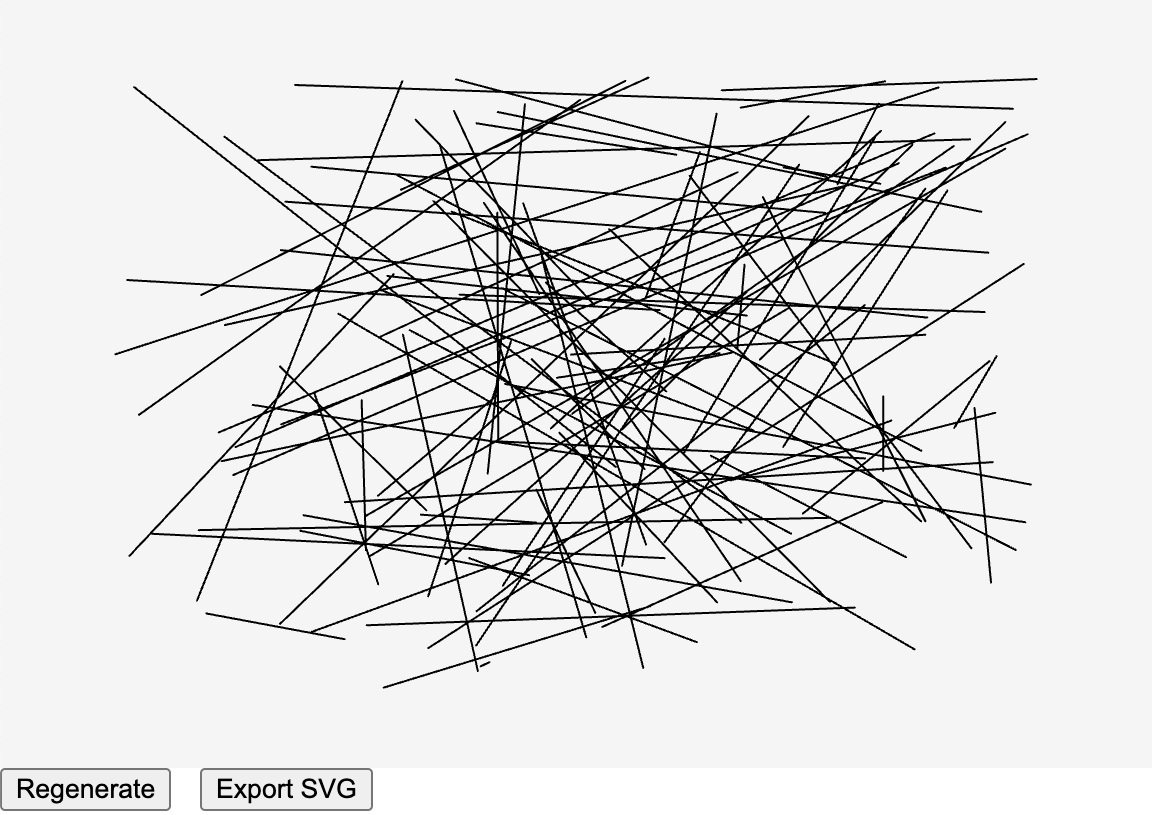
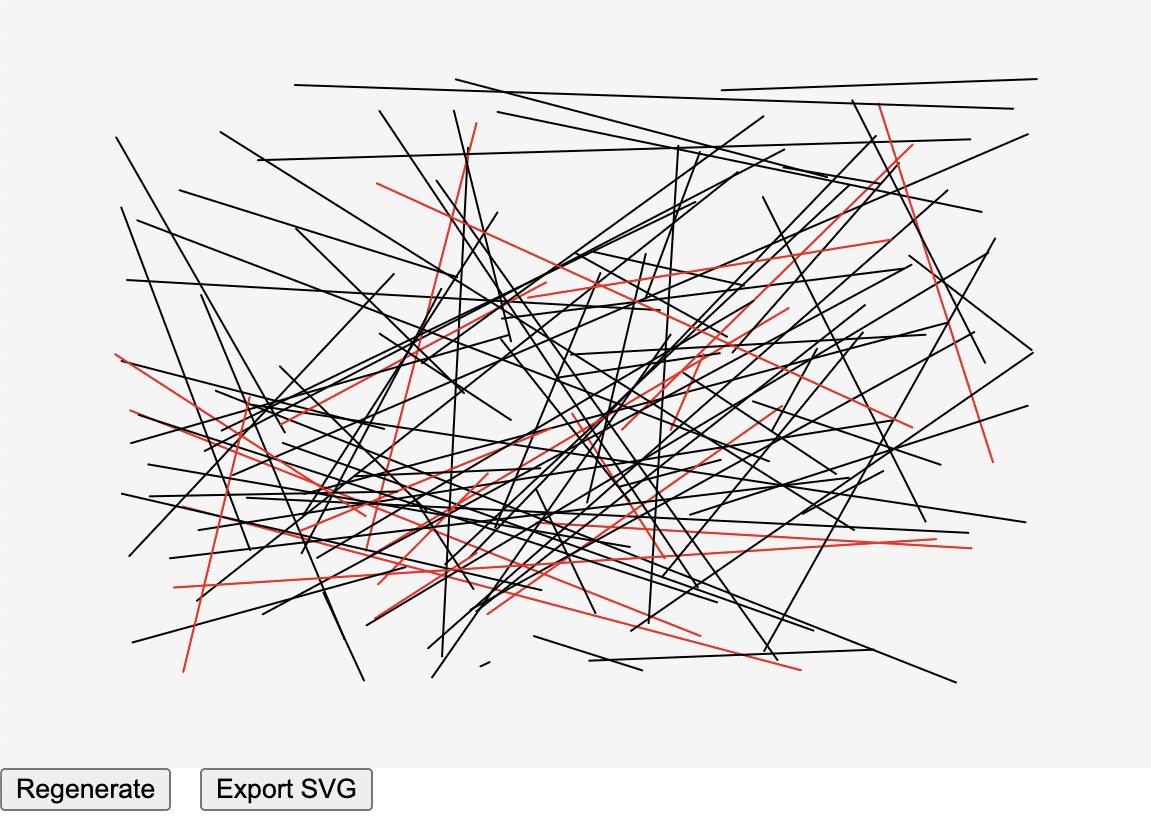
Duh

diff --git a/lib/p5.plotSvg.js b/lib/p5.plotSvg.js
@@ -1,8 +1,8 @@
 // p5.plotSvg: a Plotter-Oriented SVG Exporter for p5.js
 // https://github.com/golanlevin/p5.plotSvg
 // Initiated by Golan Levin (@golanlevin)
-// v.0.1.5, June 26, 2025
-// Known to work with p5.js versions 1.4.2–1.11.8
+// v.0.1.6, July 21, 2025
+// Known to work with p5.js versions 1.4.2–1.11.9
 
 (function(global) {
   // Create a namespace for the library

diff --git a/examples/plotSvg_generative/sketch.js b/examples/plotSvg_generative/sketch.js
@@ -51,7 +51,7 @@ function draw(){
   setSvgGroupByStrokeColor(true); 
 
   // Draw 100 random lines: some red, some black.
-  let nLines = 20; 
+  let nLines = 100; 
   for (let i=0; i<nLines; i++){
     if (random() < 0.2){
       stroke('red'); // Red

diff --git a/examples/plotSvg_drawing_recorder/README.md b/examples/plotSvg_drawing_recorder/README.md
@@ -1,6 +1,6 @@
 # plotSvg_drawing_recorder Example
 
-The `plotSvg_drawing_recorder` example records a series of marks drawn by the user, and exports an SVG file when the 's' key is pressed.
+The `plotSvg_drawing_recorder` example records a series of marks drawn by the user, and exports an SVG file when a button is pressed.
 
 ![plotSvg_drawing_recorder.png](plotSvg_drawing_recorder.png)
 
@@ -12,27 +12,38 @@ Code:
 
 
 ```js
-// plotSvg_drawing_recorder Example
 // This sketch records a series of marks drawn by the user
-// and exports an SVG file when the 's' key is pressed.
-// 
-// Requires: https://cdn.jsdelivr.net/npm/p5.plotsvg@latest/lib/p5.plotSvg.js
-// See: https://github.com/golanlevin/p5.plotSvg
+// and exports an SVG file when the 'Export SVG' button is pressed.
+// This sketch is mobile-friendly.
+//
+// Uses https://github.com/golanlevin/p5.plotSvg (v.0.1.x)
+// A Plotter-Oriented SVG Exporter for p5.js
+// Golan Levin, November 2024
 
 p5.disableFriendlyErrors = true; 
+let exportSvgButton;
+let clearButton;
 let bDoExportSvg = false; 
-
 let marks = [];
 let currentMark = []; 
 
 function setup() {
-  // Postcard size: 6"x4" at 96 dpi
-  createCanvas(576, 384);
+  createCanvas(375, 500); // phone-safe size
+  exportSvgButton = createButton('Export SVG');
+  exportSvgButton.position(10, 10);
+  exportSvgButton.mousePressed(() => bDoExportSvg = true);
+  clearButton = createButton('Clear');
+  clearButton.position(100, 10);
+  clearButton.mousePressed(() => {
+    marks = [];
+    currentMark = [];
+  });
 }
 
+//-------------------------------------
 function keyPressed(){
   if (key == 's'){
-    // Initiate SVG exporting
+    // Another way to initiate SVG exporting
     bDoExportSvg = true; 
   } else if (key == ' '){
     // Clear recordings with spacebar
@@ -41,6 +52,7 @@ function keyPressed(){
   }
 }
 
+//-------------------------------------
 function mousePressed(){
   currentMark = [];
   currentMark.push(createVector(mouseX, mouseY)); 
@@ -53,7 +65,26 @@ function mouseReleased(){
     marks.push(currentMark); 
   }
 }
+function touchStarted(event) {
+  if (event.target.tagName === 'CANVAS') {
+    mousePressed();
+    return false;
+  }
+}
+function touchMoved(event) {
+  if (event.target.tagName === 'CANVAS') {
+    mouseDragged();
+    return false;
+  }
+}
+function touchEnded(event) {
+  if (event.target.tagName === 'CANVAS') {
+    mouseReleased();
+    return false;
+  }
+}
 
+//-------------------------------------
 function draw(){
   background(245); 
   strokeWeight(1);
@@ -61,8 +92,8 @@ function draw(){
   noFill();
   
   if (bDoExportSvg){
-    // Begin exporting, if requested
-    beginRecordSVG(this, "plotSvg_drawing_recorder.svg");
+    let svgFilename = "plotSvg_recording_" + frameCount; 
+    beginRecordSVG(this, svgFilename + ".svg");
   }
 
   // Draw each of the stored marks
@@ -80,7 +111,6 @@ function draw(){
   }
   endShape(); 
 
-  
   if (bDoExportSvg){
     // End exporting, if doing so
     endRecordSVG();

diff --git a/README.md b/README.md
@@ -173,7 +173,7 @@ These [examples](examples/README.md) show how to generate plotter-friendly SVGs 
 * To create SVG paths with non-default colors, simply use the `stroke()` command as usual. Note, however, that any such strokes will have additional style information added to their SVG representation (e.g. `style="stroke:#ff0000;"`); this could lead to potentially large file sizes, depending on your design. To restore the default stroke color, you can use `stroke(getDefaultStrokeColor());`.
 * If you use stroke colors, the working assumption of p5.plotSvg is that you are using so *to label different logical entities* — such as different color pens in a multi-pen plotter, different tools in a CNC machine, or different intensity settings in a laser cutter. For this reason, alpha (transparency) values are stripped out. I strongly recommend using just a small number of colors, and selecting easy-to-remember [CSS color keyword names](https://www.w3.org/TR/SVG11/types.html#ColorKeywords) such as `'red'`, `'green'`, `'blue'`, etc. 
 * This library only accepts p5 `stroke()` commands with the following types of arguments: CSS named colors [in the set of 147 official SVG colors](https://johndecember.com/html/spec/colorsvg.html), hex formatted color strings, or as RGB/gray colors whose values range from 0-255. The p5 `colorMode()` command is not supported by p5.plotSvg, and calls to `colorMode()` may produce unpredictable results in your SVG.
-* When making multi-color plots, the `setSvgMergeNamedGroups(true)` function may be helpful in grouping paths you want plotted with the same color pen; see [this example](examples/plotSvg_post_grouping/README.md).
+* When making multi-color plots, the `setSvgGroupByStrokeColor(true)` function may be helpful in grouping paths you want plotted with the same color pen; see [this example](examples/setSvgMergeNamedGroups/README.md).
 
 ### Graphics Transforms
 

diff --git a/examples/plotSvg_generative/README.md b/examples/plotSvg_generative/README.md
@@ -4,6 +4,8 @@
 
 The `plotSvg_generative` example shows one possible way that p5.plotSvg could be used for generative plotter art. In this sketch, pressing the `Regenerate` button changes the design's random seed; the user can then press the `Export SVG` button when they are satisfied with the results.
 
+This sketch uses the `setSvgGroupByStrokeColor(true)` command, which ensures that strokes of the same color are grouped together in the SVG file.
+
 Code:
 
 * At editor.p5js.org: [https://editor.p5js.org/golan/sketches/LRTXmDg2q](https://editor.p5js.org/golan/sketches/LRTXmDg2q)
@@ -11,7 +13,6 @@ Code:
 * At GitHub: [sketch.js](https://raw.githubusercontent.com/golanlevin/p5.plotSvg/refs/heads/main/examples/plotSvg_generative/sketch.js)
 
 ```js
-// plotSvg_generative Example
 // Demonstrates how to use the p5.plotSvg library to export 
 // SVG files from a "generative art" sketch in p5.js.
 
@@ -59,9 +60,19 @@ function draw(){
     beginRecordSVG(this, "plotSvg_generative_" + myRandomSeed + ".svg");
   }
 
-  // Draw 100 random lines.
+  
+  // Set the SVG group by stroke color to `true`, so that strokes 
+  // of the same color are grouped together in the SVG file. 
+  setSvgGroupByStrokeColor(true); 
+
+  // Draw 100 random lines: some red, some black.
   let nLines = 100; 
   for (let i=0; i<nLines; i++){
+    if (random() < 0.2){
+      stroke('red'); // Red
+    } else {
+      stroke('black'); // Black
+    }
     let x1 = width  * random(0.1, 0.9); 
     let y1 = height * random(0.1, 0.9); 
     let x2 = width  * random(0.1, 0.9); 
